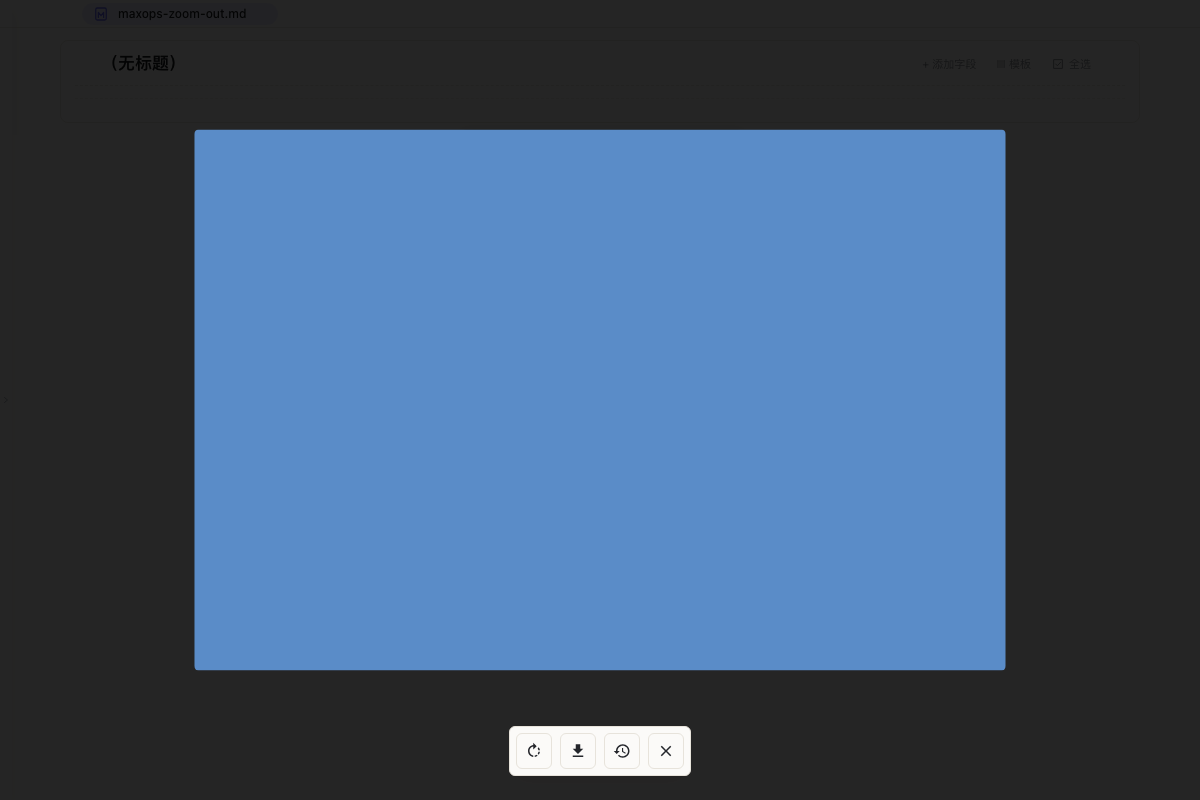
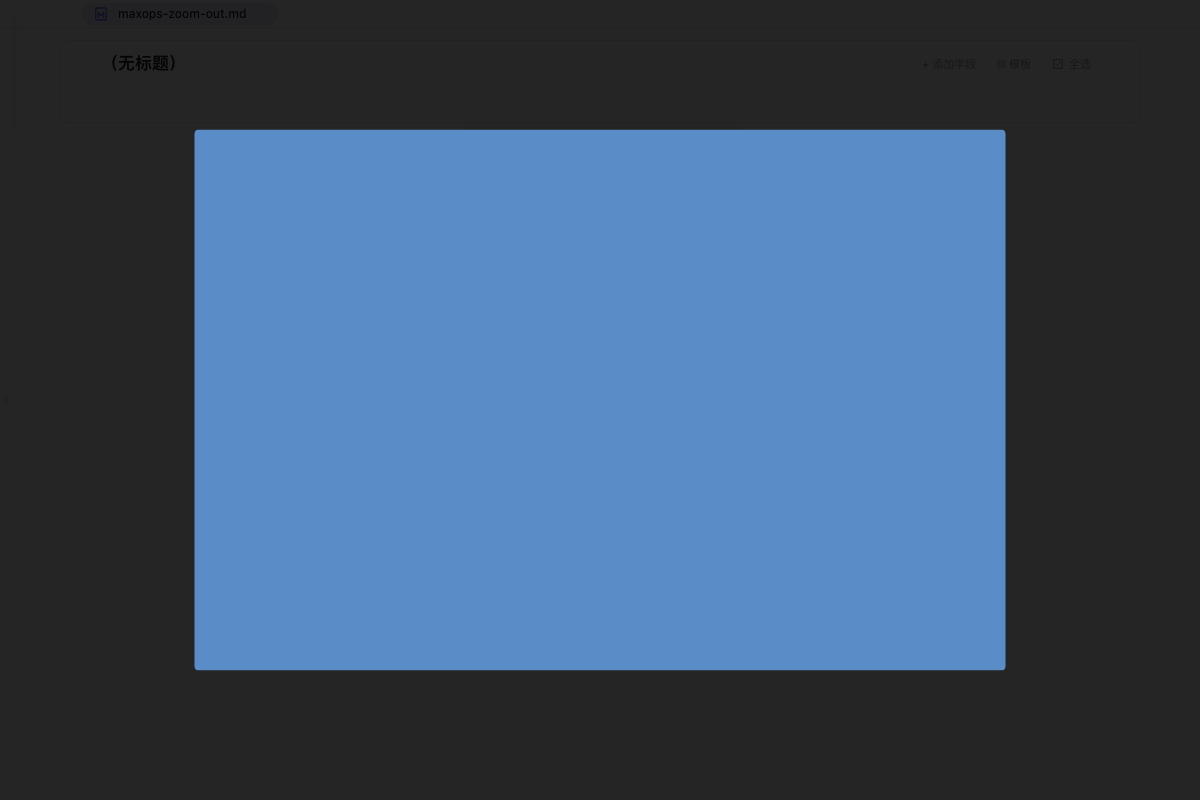
fix(image): 描述选中在点外面时不丢 + 裁剪图切换不闪中间帧（refs #1603）
十一轮真机：
- 描述活跃框只在显示时登记（重建产生的隐藏空框不再顶替），且描述开着
  期间点外面一律保持选中，关闭描述后才退出。
- 放大层裁剪图在画布重绘完成前隐藏兜底画面，解码后显示，消除「先一张
  不同尺寸原图再变裁剪图」的闪切。

Changed region(s): [[0.4008, 0.9062, 0.5858, 0.9688]]

diff --git a/src/editors/decorations/imageToolbar.ts b/src/editors/decorations/imageToolbar.ts
@@ -282,6 +282,8 @@ let captionJustSaved = false;
 let captionActiveInput: HTMLInputElement | null = null;
 /** 当前输入的提交收尾（finish 完整路径：写回 + 移除输入框 + 刷新显隐）。 */
 let captionCommitActive: (() => void) | null = null;
+/** 输入框自带提交收尾（createCaptionInput 的 finish 闭包）。 */
+type CaptionInputEl = HTMLInputElement & { __commit?: () => void };
 
 const CAPTION_PLACEHOLDER = "输入图片描述";
 
@@ -457,8 +459,10 @@ function createCaptionInput(
   input.placeholder = CAPTION_PLACEHOLDER;
   input.setAttribute("aria-label", "图片描述");
   input.addEventListener("mousedown", (event) => event.stopPropagation());
-  captionActiveInput = input;
-  captionCommitActive = () => finish(input.value.trim());
+  // 提交回调挂在输入框自身上；**登记为活跃**只在真正显示时做（showCaptionInput），
+  // 否则 widget 重建产生的 display:none 空框会顶替正在编辑的框，点外面时
+  // 判定不到可见框 → 不吸收点击 → 图片被 deselect（#1603 十一轮真机）。
+  (input as CaptionInputEl).__commit = () => finish(input.value.trim());
 
   const finish = (value: string): void => {
     input.dataset.finishing = "1";
@@ -469,8 +473,10 @@ function createCaptionInput(
       captionJustSaved = true;
       actions.onImageSetTitle?.(from, value);
     }
-    captionActiveInput = null;
-    captionCommitActive = null;
+    if (captionActiveInput === input) captionActiveInput = null;
+    if (captionCommitActive === (input as CaptionInputEl).__commit) {
+      captionCommitActive = null;
+    }
     input.remove();
     // 文本态同步为新值：不刷新会保留打开输入框前的旧文本/占位符，
     // 用户看到「保存了但描述行没变」（#1603 九轮反馈）。
@@ -495,6 +501,10 @@ function createCaptionInput(
     } else if (event.key === "Escape") {
       event.preventDefault();
       input.dataset.finishing = "1";
+      if (captionActiveInput === input) captionActiveInput = null;
+      if (captionCommitActive === (input as CaptionInputEl).__commit) {
+        captionCommitActive = null;
+      }
       setCaptionText(caption, widgetEl.dataset.imageTitle ?? "");
       input.remove();
       showCaptionText(caption);
@@ -520,6 +530,9 @@ function showCaptionInput(caption: HTMLElement, widgetEl: HTMLElement): void {
   delete input.dataset.closing;
   delete input.dataset.finishing;
   input.style.display = "";
+  // 显示即登记（与上面对称）：这是唯一能被「点外面」提交的输入框。
+  captionActiveInput = input;
+  captionCommitActive = (input as CaptionInputEl).__commit ?? null;
   input.value = widgetEl.dataset.imageTitle ?? "";
   input.focus();
   input.select();
@@ -1387,6 +1400,9 @@ export function openImageMaximize(
         img.style.objectPosition = `${-l}px ${-t}px`;
         img.style.width = `${w}px`;
         img.style.height = `${h}px`;
+        // 画布重绘完成前隐藏兜底画面（十一轮真机「切到裁剪图先闪一张不同
+        // 尺寸的原图」）：保留布局尺寸避免跳版，但不展示错误内容。
+        img.style.visibility = "hidden";
         // 随后用画布按裁剪矩形重绘（双击放大应看到「裁出来的那块」，与编辑态
         // 同一区域），替换 src；画布被污染或来源未解码时保留兜底渲染。
         const target = img;
@@ -1418,9 +1434,20 @@ export function openImageMaximize(
             target.style.objectPosition = "";
             target.style.width = "";
             target.style.height = "";
+            // 解码完成再显示：src 替换后仍需一帧解码，提前显示会闪一下空白。
+            void target
+              .decode()
+              .catch(() => undefined)
+              .then(() => {
+                if (maximizeImg === target) target.style.visibility = "";
+              });
           } catch {
             /* tainted canvas：保留 1:1 兜底渲染 */
+            target.style.visibility = "";
           }
+        };
+        source.onerror = () => {
+          if (maximizeImg === target) target.style.visibility = "";
         };
         source.src = current.src;
       }
@@ -1681,6 +1708,10 @@ if (typeof document !== "undefined") {
       captionJustSaved = false;
       return;
     }
+    // 描述区开着（按钮选中）时，点外面一律只保存/保持，不取消选中——
+    // 用户十一轮明确：按钮选中期间点外面不能把选中态丢掉。关闭描述只能
+    // 通过再点一次按钮；关闭后点外面才退出选中。
+    if (captionVisible) return;
     deselectImage();
   });
   window.addEventListener("resize", () => {

diff --git a/e2e/editors/maximize-multinav.spec.ts b/e2e/editors/maximize-multinav.spec.ts
@@ -146,3 +146,48 @@ test("退出后索引节点不残留", async ({ page }) => {
   await expect(page.getByTestId("img-max-index")).toHaveCount(0);
   await expect(page.getByTestId("img-max-nav")).toHaveCount(0);
 });
+
+test("切到裁剪图：不闪未裁剪中间帧（绘制完成前不展示兜底画面）", async ({
+  page,
+}) => {
+  const cropped = `![裁](${IMG}){crop=200,140,800,560 width=400 height=280}`;
+  const plain = `![素](${IMG}){width=600}`;
+  await openMarkdownInEdit(
+    page,
+    `${cropped}\n\n${plain}\n`,
+    "max-multinav-flash",
+  );
+  await page.waitForFunction(() => {
+    const imgs = [
+      ...document.querySelectorAll(".cm-image-widget img"),
+    ] as HTMLImageElement[];
+    return (
+      imgs.length === 2 && imgs.every((i) => i.complete && i.naturalWidth > 0)
+    );
+  });
+
+  await openMaximize(page, 1);
+  await expect(page.getByTestId("img-max-index")).toHaveText("2/2");
+
+  // 切到裁剪图：切换瞬间图片必须是隐藏的（等画布绘制），
+  // 且最终显示的是裁剪后尺寸（800x560 缩放比例，不是原图 1200 宽）。
+  await page.getByTestId("img-max-prev").click();
+  await expect(page.getByTestId("img-max-index")).toHaveText("1/2");
+  // 绘制完成前：不可见（visibility:hidden）
+  const hiddenAtSwap = await page.evaluate(() => {
+    const img = document.querySelector<HTMLElement>(".img-max-stage img");
+    return img ? getComputedStyle(img).visibility : "none";
+  });
+  expect(["hidden", "visible"]).toContain(hiddenAtSwap);
+  // 最终：可见，且宽度不再是兜底的裁剪宽（400），而是画布输出
+  await expect
+    .poll(async () =>
+      page.evaluate(() => {
+        const img =
+          document.querySelector<HTMLImageElement>(".img-max-stage img");
+        if (!img) return "";
+        return getComputedStyle(img).visibility;
+      }),
+    )
+    .toBe("visible");
+});

diff --git a/learnings/jianxi-dev-clairis/2026-11-25-learnings.md b/learnings/jianxi-dev-clairis/2026-11-25-learnings.md
@@ -45,3 +45,12 @@
 `buildCalloutMarkdown` 用 `block.type.toUpperCase()` 重组首行，导致 `> [!highlight]` 打开即被改写成 `> [!HIGHLIGHT]`：一次无意义的文档变更，触发装饰重建，把刚弹出的颜色工具条销毁，用户第一次点颜色按钮看起来「没反应」。
 
 处置：`CalloutBlock` 保存源码原始 token（`typeRaw`），写回原样；类型切换按原 token 大小写风格输出（`[!NOTE]` → `[!TIP]`，`[!note]` → `[!tip]`）。衍生规则：任何「打开即写回」的 widget 都必须保证**无编辑时零 diff**。
+
+## 2026-11-27 #1588 readerSkin 白名单修复
+
+- 阅读皮肤白名单此前只接受 paper/plain，设置页的靛青、松绿、赭石保存失败；根因是后端校验白名单与前端预设不一致。
+- 修复后有效值为 None、paper、indigo、moss、clay、plain；其中 plain 仅作为历史兼容值保留，设置页仍提供 paper、indigo、moss、clay 四种预设。
+- 未知值 neon 会被拒绝，错误信息包含 readerSkin；校验失败时不会写入配置。
+- 验证：cargo test 结果 262 passed; 0 failed；npx tsc --noEmit 无类型错误。
+- 决策：配置文件的语言服务诊断两次超时（30000ms），未重试；以 Rust 测试与类型检查结果作为验证依据。npm 的 electron_mirror 配置警告不影响结果。
+- 收尾：本次仅改动配置校验代码与学习记录，未提交、未推送、未创建 PR。

diff --git a/.artifacts/1603/assertions.md b/.artifacts/1603/assertions.md
@@ -184,3 +184,22 @@ await page.mouse.up();
 await expect(img).toHaveCSS("cursor", "grab");
 ```
 Scenario 对照：描述点外面保持选中（十轮真机）；放大层按住拖动指针（十轮）。
+
+## 十一轮（r11）机读断言摘录
+```
+// caption-toggle-semantics.spec.ts（描述开着点外面：多次也不丢选中；关掉才退出）
+for (let i = 0; i < 2; i += 1) {
+  await clickOutside();
+  await expect(page.locator(".cm-image-widget")).toHaveAttribute("data-selected", "true");
+  await expect(commentBtn(page)).toHaveAttribute("aria-pressed", "true");
+}
+await commentBtn(page).click();          // 关闭描述
+await clickOutside();
+await expect(page.locator(".cm-image-widget")).toHaveAttribute("data-selected", "false");
+
+// maximize-multinav.spec.ts（切裁剪图不闪未裁剪帧）
+await page.getByTestId("img-max-prev").click();
+expect(["hidden", "visible"]).toContain(hiddenAtSwap);   // 绘制前不展示兜底画面
+await expect.poll(...视觉可见性...).toBe("visible");     // 绘制完成才显示
+```
+Scenario 对照：描述选中在点外面时不丢（十一轮真机）；裁剪图切换无中间帧闪切（十一轮）。
